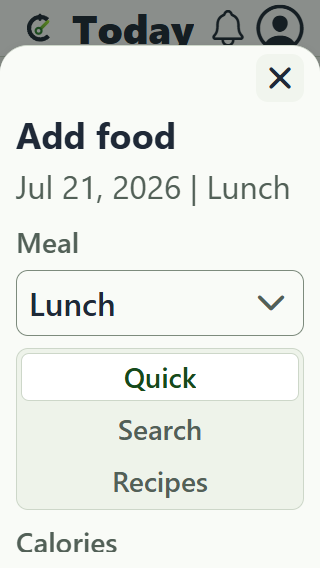
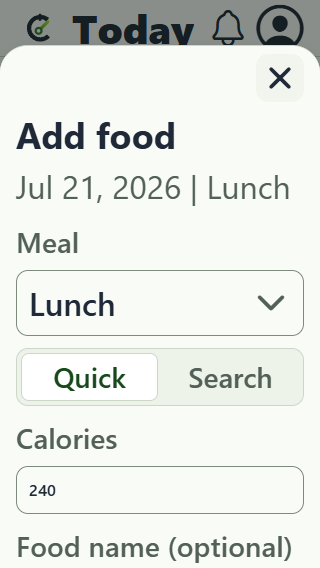
Preserve cached saved foods in unified search and validate recipe logging

diff --git a/mobile/src/components/AddFoodSheet.test.tsx b/mobile/src/components/AddFoodSheet.test.tsx
@@ -5,6 +5,7 @@ import { onlineManager, QueryClient, QueryClientProvider } from '@tanstack/react
 import { MEAL_PERIODS, type MealPeriod } from '@calibrate/shared';
 import type { RecentFoodSummary } from '@calibrate/api-client';
 import { AddFoodSheet } from './AddFoodSheet';
+import { getSavedFoodsLibraryQueryKey } from '../savedFoods/queryKeys';
 
 jest.mock('@expo/vector-icons/Ionicons', () => () => null);
 jest.mock('expo-router', () => ({ router: { push: jest.fn() } }));
@@ -231,6 +232,27 @@ describe('AddFoodSheet async resource states', () => {
         } finally {
             replacedPlatform.restore();
         }
+    });
+
+    it('finds cached library recipes offline and opens quantity confirmation without logging', async () => {
+        const screen = renderSheet((queryClient) => {
+            queryClient.setQueryData(getSavedFoodsLibraryQueryKey('', 'RECIPE'), {
+                pages: [{ items: [{
+                    id: 14, type: 'RECIPE', name: 'Overnight oats', is_pinned: false,
+                    serving_size_quantity: 1, serving_unit_label: 'serving',
+                    calories_per_serving: 320, recipe_total_calories: 640, yield_servings: 2
+                }], next_cursor: null }], pageParams: [undefined]
+            });
+        });
+        const searchField = screen.getByLabelText('Search foods');
+        fireEvent.changeText(searchField, 'oats');
+        fireEvent(searchField, 'submitEditing');
+        expect(await screen.findByText('Overnight oats')).toBeTruthy();
+        expect(screen.getByText('Offline - showing saved information')).toBeTruthy();
+        fireEvent.press(screen.getByLabelText('Choose amount for Overnight oats'));
+        expect(screen.getByLabelText('Amount')).toBeTruthy();
+        expect(mockApi.getMyFoods).not.toHaveBeenCalled();
+        expect(mockApi.createFoodLog).not.toHaveBeenCalled();
     });
 
     it('offers only Quick and Search while keeping saved recipes discoverable in Search', async () => {

diff --git a/mobile/src/components/AddFoodSheet.tsx b/mobile/src/components/AddFoodSheet.tsx
@@ -43,6 +43,7 @@ import {
 import { radius, spacing, useAppTheme, type AppTheme } from '../theme';
 import { getSafeActionErrorMessage } from '../errors/presentation';
 import { confirmDiscardChanges } from './confirmDiscardChanges';
+import { getCachedSavedFoods } from '../savedFoods/cachedFoods';
 import { ASYNC_RESOURCE_STATES, type AsyncResourceState } from '../asyncState/resolveAsyncState';
 
 type AddFoodReturnTo = 'today' | 'food-log';
@@ -195,7 +196,14 @@ export const AddFoodSheet: React.FC<AddFoodSheetProps> = ({
     });
     const recentFoodsState = useAsyncResourceState(recentFoodsQuery, (data) => data.items.length === 0);
     const providerSearchState = useAsyncResourceState(providerSearchQuery, (data) => data.items.length === 0);
-    const myFoodsState = useAsyncResourceState(myFoodsQuery, (data) => data.length === 0);
+    const savedFoods = isOnline
+        ? myFoodsQuery.data ?? []
+        : getCachedSavedFoods(queryClient, myFoodsQuery.data, myFoodsQuery.dataUpdatedAt);
+    const myFoodsState = useAsyncResourceState({
+        ...myFoodsQuery,
+        data: savedFoods.length > 0 ? savedFoods : myFoodsQuery.data,
+        dataUpdatedAt: savedFoods.length > 0 ? Math.max(1, myFoodsQuery.dataUpdatedAt) : myFoodsQuery.dataUpdatedAt
+    }, (data) => data.length === 0);
 
     const createFoodLog = useCallback((payload: FoodLogCreatePayload) => {
         if (foodDayQuery.data?.status !== 'OPEN') {
@@ -257,7 +265,6 @@ export const AddFoodSheet: React.FC<AddFoodSheetProps> = ({
         logFood.reset();
     }, [initialMeal, visible]);
 
-    const savedFoods = myFoodsQuery.data ?? [];
     const providerData = requestedQuery === normalizedQuery ? providerSearchQuery.data : undefined;
     const recentData = requestedQuery === normalizedQuery
         ? recentFoodsQuery.data

diff --git a/mobile/src/savedFoods/cachedFoods.test.ts b/mobile/src/savedFoods/cachedFoods.test.ts
@@ -1,0 +1,33 @@
+import { QueryClient } from '@tanstack/react-query';
+import type { MyFoodSummary } from '@calibrate/api-client';
+import { getCachedSavedFoods } from './cachedFoods';
+import { getSavedFoodsLibraryQueryKey } from './queryKeys';
+
+const recipe: MyFoodSummary = {
+    id: 14, type: 'RECIPE', name: 'Oats', is_pinned: false,
+    serving_size_quantity: 1, serving_unit_label: 'serving',
+    calories_per_serving: 320, recipe_total_calories: 640, yield_servings: 2
+};
+
+it('uses every cached page and the latest duplicate without overwriting the complete query', () => {
+    const client = new QueryClient();
+    client.setQueryData(getSavedFoodsLibraryQueryKey('', 'RECIPE'), {
+        pages: [{ items: [recipe] }, { items: [{ ...recipe, id: 15 }] }], pageParams: [undefined, '2']
+    }, { updatedAt: 100 });
+    client.setQueryData(getSavedFoodsLibraryQueryKey('oats', 'ALL'), {
+        pages: [{ items: [{ ...recipe, calories_per_serving: 350 }] }], pageParams: [undefined]
+    }, { updatedAt: 200 });
+    expect(getCachedSavedFoods(client, undefined, 0).map(food => [food.id, food.calories_per_serving]))
+        .toEqual([[14, 350], [15, 320]]);
+    expect(client.getQueryData(['mobile-my-foods'])).toBeUndefined();
+    client.clear();
+});
+
+it('does not resurrect deleted foods from pages older than a complete refresh', () => {
+    const client = new QueryClient();
+    client.setQueryData(getSavedFoodsLibraryQueryKey('', 'RECIPE'), {
+        pages: [{ items: [recipe] }], pageParams: [undefined]
+    }, { updatedAt: 100 });
+    expect(getCachedSavedFoods(client, [], 200)).toEqual([]);
+    client.clear();
+});

diff --git a/e2e/expo-web/launch-13-saved-foods-library.spec.ts b/e2e/expo-web/launch-13-saved-foods-library.spec.ts
@@ -62,6 +62,9 @@ test('Saved foods supports create, search, pin, edit, deep recipe use, and snaps
   await page.emulateMedia({ colorScheme: 'light', reducedMotion: 'reduce' });
   await ux.install('populated');
   await installSavedFoodsFixture(page);
+  await page.route('**/api/v1/food/search?*', (route) => route.fulfill({
+    json: { items: [], provider: 'usda' }
+  }));
   await page.goto('/my-foods');
 
   await expect(page.locator('#route-focus-title')).toHaveText('Saved foods');
@@ -111,8 +114,9 @@ test('Saved foods supports create, search, pin, edit, deep recipe use, and snaps
   await page.goto('/food-log');
   await page.getByRole('button', { name: 'Add food', exact: true }).click();
   const addFoodDialog = page.getByRole('dialog', { name: 'Add food', exact: true });
-  await addFoodDialog.getByRole('radio', { name: 'Recipes', exact: true }).click();
-  await addFoodDialog.getByLabel('Search recipes').fill(RECIPE_NAME);
+  await expect(addFoodDialog.getByRole('radio', { name: 'Recipes', exact: true })).toHaveCount(0);
+  await addFoodDialog.getByRole('radio', { name: 'Search', exact: true }).click();
+  await addFoodDialog.getByLabel('Search foods').fill(RECIPE_NAME);
   await addFoodDialog.getByText(RECIPE_NAME, { exact: true }).click();
   const foodLogRequestPromise = page.waitForRequest((request) => (
     request.method() === 'POST' && new URL(request.url()).pathname === '/api/v1/food'

diff --git a/mobile/src/savedFoods/cachedFoods.ts b/mobile/src/savedFoods/cachedFoods.ts
@@ -1,0 +1,19 @@
+import type { MyFoodSummary, MyFoodsLibraryResponse } from '@calibrate/api-client';
+import type { InfiniteData, QueryClient } from '@tanstack/react-query';
+import { SAVED_FOODS_LIBRARY_QUERY_KEY } from './queryKeys';
+
+/** Reuse paginated library snapshots offline without treating a partial page as a complete food list. */
+export function getCachedSavedFoods(queryClient: QueryClient, foods: MyFoodSummary[] | undefined, updatedAt: number) {
+    const items = new Map((foods ?? []).map((food) => [food.id, food]));
+    const queries = queryClient.getQueryCache()
+        .findAll({ queryKey: SAVED_FOODS_LIBRARY_QUERY_KEY })
+        .filter((query) => foods === undefined || query.state.dataUpdatedAt > updatedAt)
+        .sort((left, right) => left.state.dataUpdatedAt - right.state.dataUpdatedAt);
+    for (const query of queries) {
+        const data = query.state.data as InfiniteData<MyFoodsLibraryResponse> | undefined;
+        for (const page of data?.pages ?? []) {
+            for (const food of page.items) items.set(food.id, food);
+        }
+    }
+    return [...items.values()];
+}
